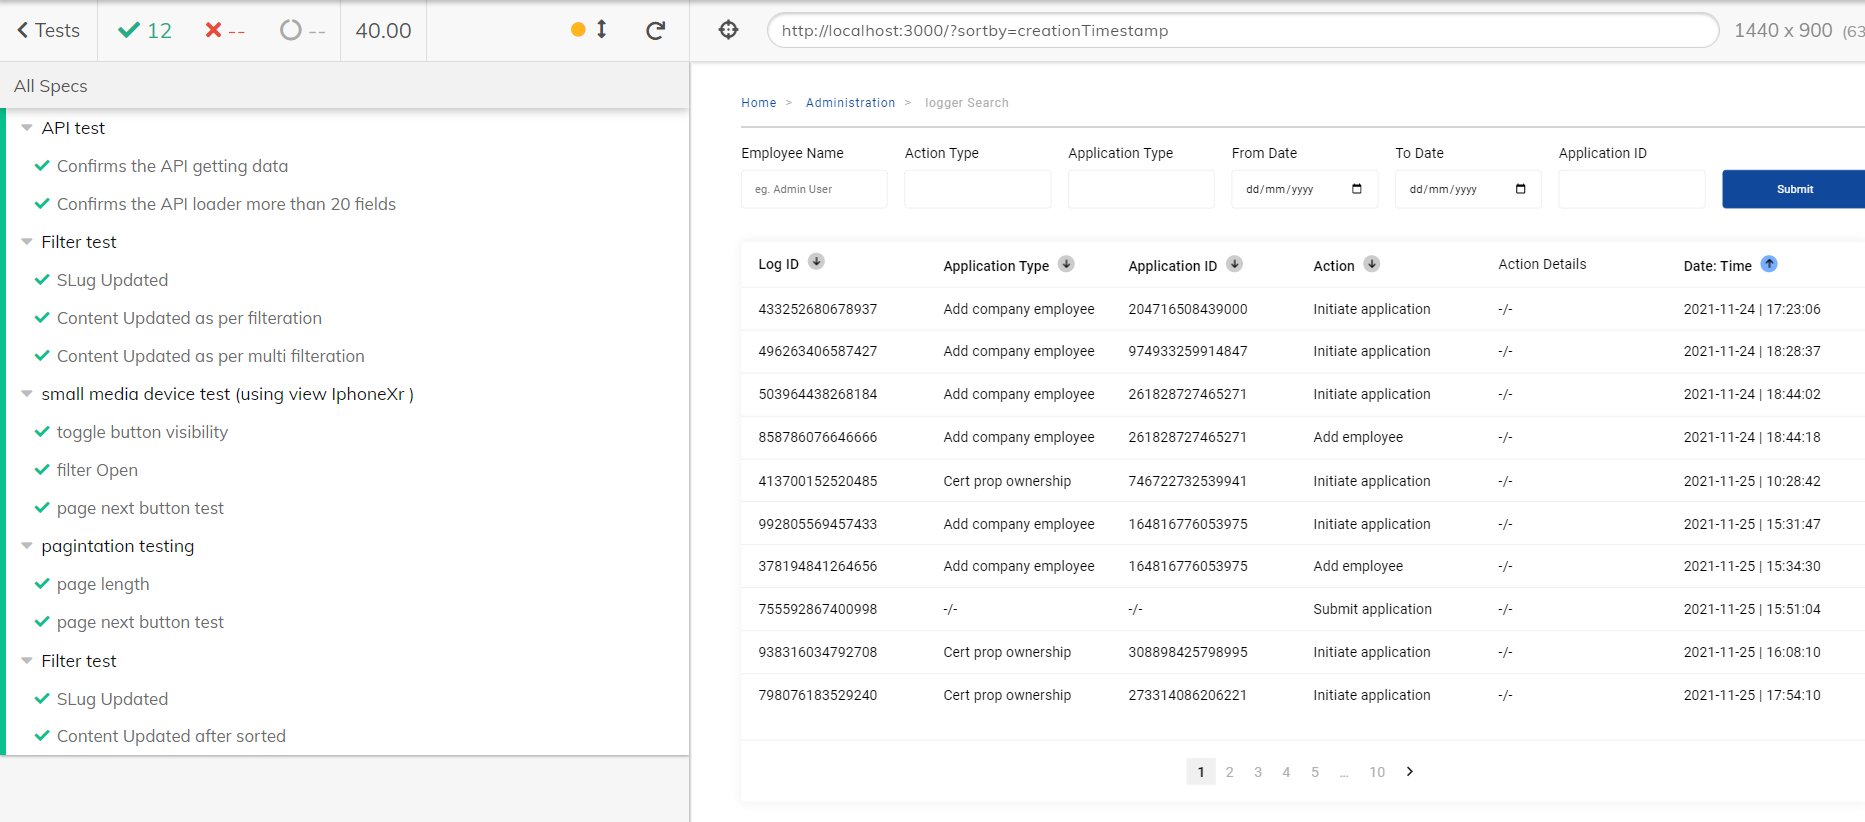
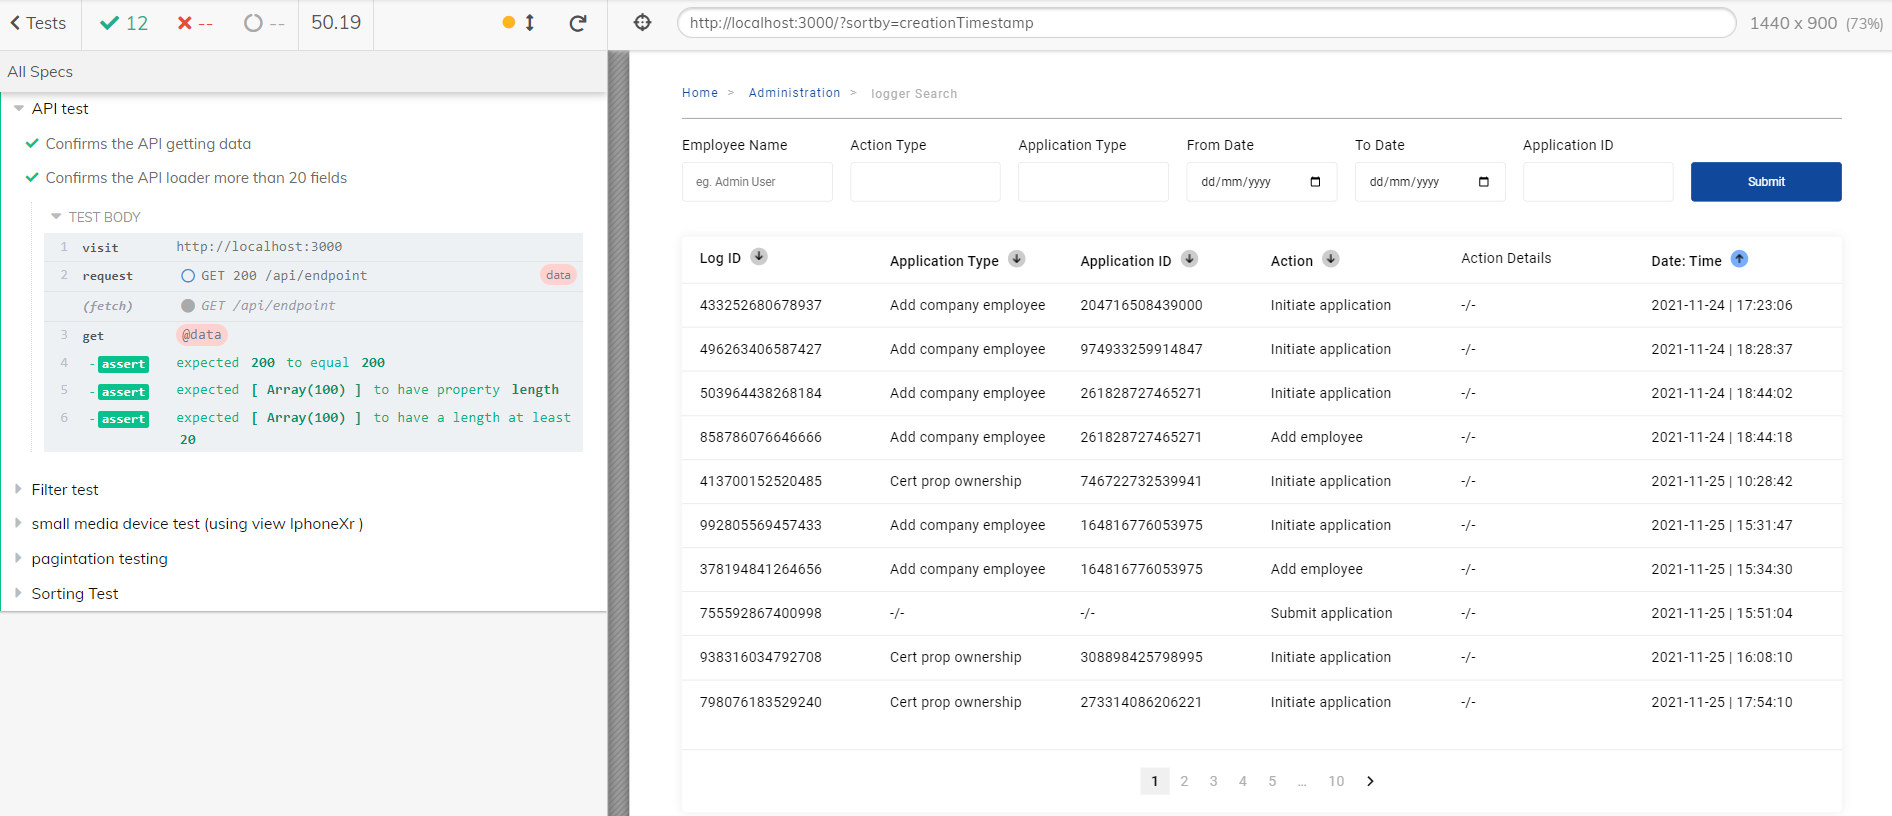
changes push

diff --git a/cypress/integration/e2e/sortBy.specs.test.js b/cypress/integration/e2e/sortBy.specs.test.js
@@ -1,4 +1,4 @@
-context('Filter test', () => {
+context('Sorting Test', () => {
     beforeEach(() => {
         cy.visit('http://localhost:3000');
         cy.viewport(1440, 900)
